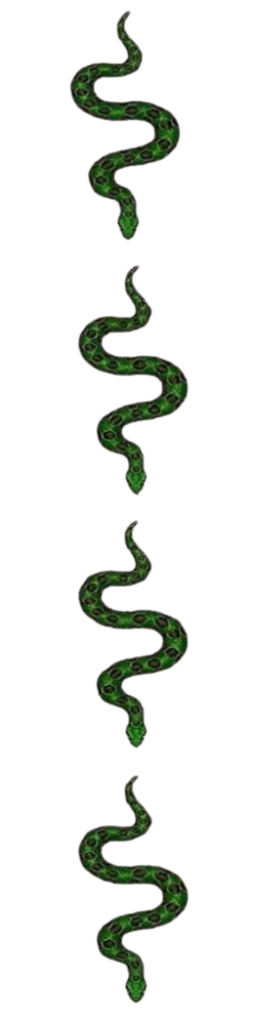
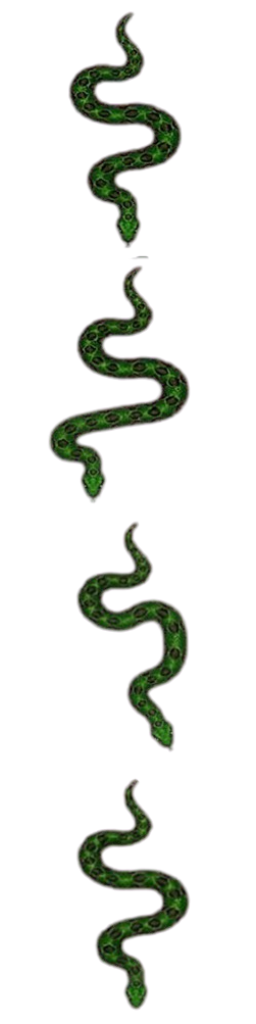
Ajuste de colisión: Hitbox de la serpiente reducido para impacto real

Changed region(s): [[0.1875, 0.0, 0.75, 1.0]]

diff --git a/v2/index.html b/v2/index.html
@@ -42,7 +42,7 @@ function preload() {
     this.load.image('bala_roja', 'https://raw.githubusercontent.com/C-Servan/Gun4fun-game/main/assets/bala_roja.png');
     this.load.image('corazon', 'https://cdn-icons-png.flaticon.com/512/833/833472.png');
 
-    // CARGA DE SERPIENTE: Ajustado frameWidth a 256 para que coincida con la imagen
+    // CARGA DE SERPIENTE: 256px para detectar los frames correctamente
     this.load.spritesheet('serpiente_anim', 'https://raw.githubusercontent.com/C-Servan/Gun4fun-game/main/assets/serpiente.png', { 
         frameWidth: 256, 
         frameHeight: 256 
@@ -94,7 +94,6 @@ function create() {
         frames: this.anims.generateFrameNumbers('tigre_s', { start: 0, end: 3 }),
         frameRate: 12, repeat: -1
     });
-    // NUEVA: Animación de la serpiente
     this.anims.create({
         key: 'reptar_snake',
         frames: this.anims.generateFrameNumbers('serpiente_anim', { start: 0, end: 3 }),
@@ -168,16 +167,21 @@ function spawnEnemy(tipo) {
         enemy = enemies.create(x, -50, 'tigre_s').setScale(0.7);
         enemy.play('run_tiger');
         enemy.setVelocityY(420);
+        // AJUSTE TIGRE (Ya lo tiene)
+        enemy.setBodySize(enemy.width * 0.3, enemy.height * 0.4, true);
     } else {
-        // SERPIENTE: Usamos el spritesheet y activamos la animación
         enemy = enemies.create(x, -50, 'serpiente_anim').setScale(0.7);
-        enemy.play('reptar_snake'); // <--- Esto activa el movimiento de los frames
+        enemy.play('reptar_snake');
         enemy.setVelocityY(180);
         this.tweens.add({ targets: enemy, x: enemy.x + 70, duration: 500, yoyo: true, repeat: -1 });
+        
+        // AJUSTE SERPIENTE: Reducimos el ancho de colisión al 25% para que sea preciso
+        // El true al final centra el hitbox en el cuerpo de la serpiente
+        enemy.setBodySize(enemy.width * 0.25, enemy.height * 0.4, true);
     }
     
     enemy.tipoEnemigo = tipo;
-    enemy.setBodySize(enemy.width * 0.3, enemy.height * 0.4, true);
+    // Quitamos la línea general que sobreescribía los ajustes específicos
 }
 
 /**
